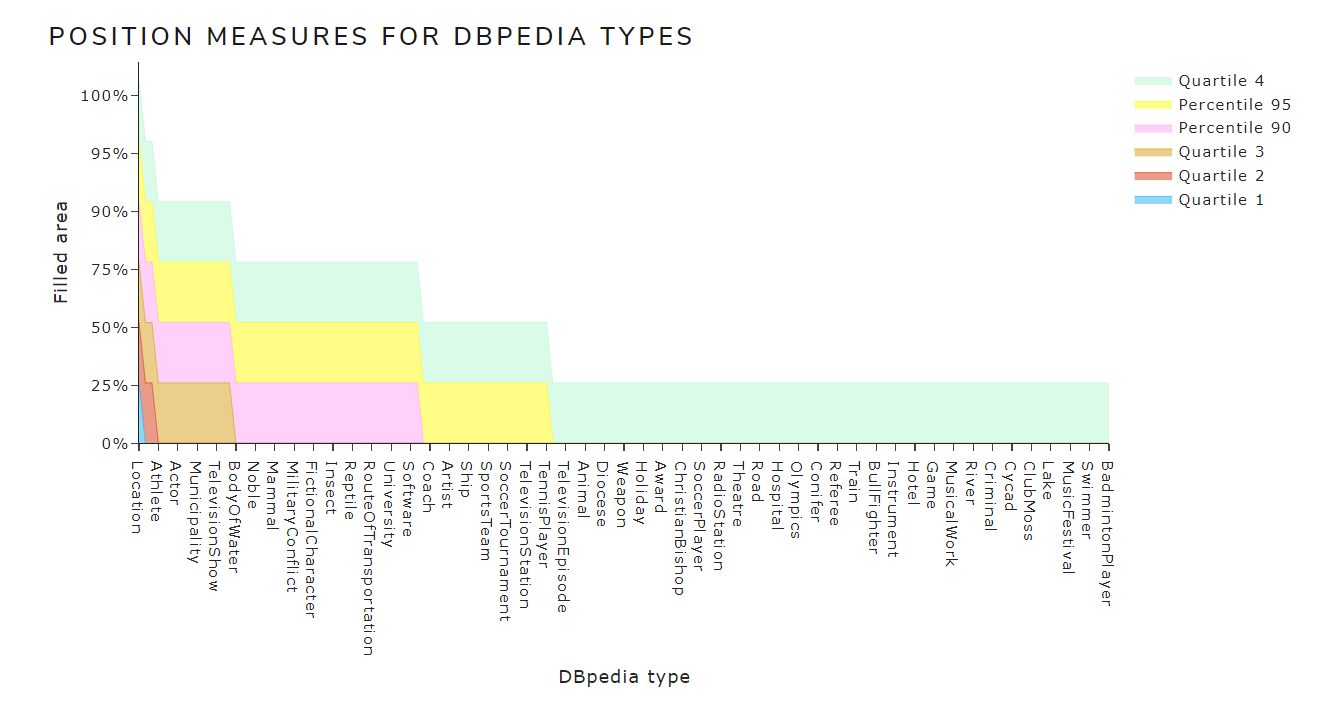
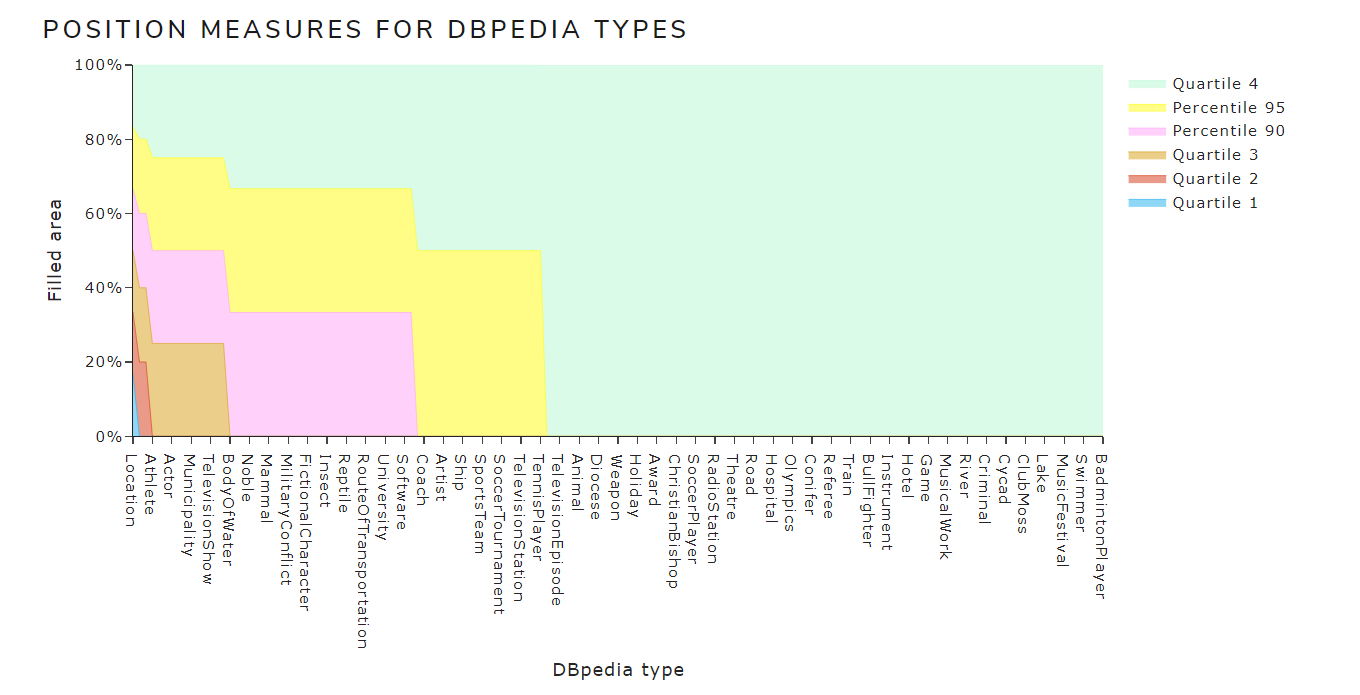
Position mesures hover text

diff --git a/src/figures.py b/src/figures.py
@@ -121,69 +121,68 @@ def get_init_bar_figure_pos(language_directory,df):
     if language_directory == R.es_dashboard_directory:
         stats = R.es_stats
         known_types = R.known_types_es_2021_05_01_without_repetitions
-        vals = [0, 200000, 400000, 600000, 800000, 1000000, 1200000]
-        text = ['0%', '25%', '50%', '75%', '90%', '95%','100%']
     else:
         known_types = R.known_types_en_2021_05_01_without_repetitions
         stats = R.en_stats
-        vals = [0, 1000000, 2000000, 3000000, 4000000]
-        text = ['0%', '35%', '80%', '95%', '100%']
         
     x = known_types["DBpedia type"].tolist()
     cumulative = known_types["Cumulative total"].tolist()
     n_entities = known_types["Nº entities"].tolist()
     quartile1 = list()
+    quartile1_text = list()
     quartile2 = list()
+    quartile2_text = list()
     quartile3 = list()
+    quartile3_text = list()
     quartile4 = list()
-    p10 = list()
+    quartile4_text = list()
     p90 = list()
+    p90_text = list()
     p95 = list()
-    
+    p95_text = list()
+    i = 0
     for value in cumulative:
-        i = 0
-        if value <= float(stats[10]): # 10th percentile
-            p10.append(n_entities[i])
         if value <= float(stats[8]): # 1st quartile
             quartile1.append(n_entities[i])
+            quartile1_text.append("("+ x[i]+", " + str(n_entities[i])+")")
         if value <= float(stats[14]): # 2nd quartile
             quartile2.append(n_entities[i])
+            quartile2_text.append("("+ x[i]+", " + str(n_entities[i])+")")
         if value <= float(stats[9]): # 3rd quartile
-            quartile3.append(n_entities[i])  
+            quartile3.append(n_entities[i])
+            quartile3_text.append("("+ x[i]+", " + str(n_entities[i])+")")
         if value <= float(stats[18]): # 90th percentile
             p90.append(n_entities[i])
+            p90_text.append("("+ x[i]+", " + str(n_entities[i])+")")
         if value <= float(stats[19]): # 95th percentile
             p95.append(n_entities[i])
+            p95_text.append("("+ x[i]+", " + str(n_entities[i])+")")
         # 4th quartile
         quartile4.append(n_entities[i])
+        quartile4_text.append("("+ x[i]+", " + str(n_entities[i])+")")
         i+=1
         
     # For displaying positional measures
     fig = go.Figure()
-    # 10th percentile
-    fig.add_trace(go.Scatter(
-        x=x, y=p10,
-        name='Percentile 10',
-        hoverinfo='x+y',
-        mode='lines',
-        line=dict(width=0.5, color="#77C14C"),
-        stackgroup='one' # define stack group
-    ))
+    
      # 1st quartile
     fig.add_trace(go.Scatter(
         x=x, y=quartile1,
         name='Quartile 1',
-        hoverinfo='x+y',
+        hoverinfo="text",
+        hovertext=quartile1_text,
         mode='lines',
         line=dict(width=0.5, color="#1FAFEE"),
-        stackgroup='one' # define stack group
+        stackgroup='one',
+        groupnorm='percent'
     ))
      # 2nd quartile
     fig.add_trace(go.Scatter(
         x=x, y=quartile2,
         name='Quartile 2',
-        hoverinfo='x+y',
         mode='lines',
+        hoverinfo="text",
+        hovertext=quartile2_text,
         line=dict(width=0.5, color="#D53614"),
         stackgroup='one' # define stack group
     ))
@@ -191,17 +190,20 @@ def get_init_bar_figure_pos(language_directory,df):
     fig.add_trace(go.Scatter(
         x=x, y=quartile3,
         name='Quartile 3',
-        hoverinfo='x+y',
+        hoverinfo="text",
+        hovertext=quartile3_text,
         mode='lines',
         line=dict(width=0.5, color="#D59D14"),
         stackgroup='one' # define stack group
     ))
+    
           # 90th percentile
     fig.add_trace(go.Scatter(
         x=x, y=p90,
         name='Percentile 90',
-        hoverinfo='x+y',
         mode='lines',
+        hoverinfo="text",
+        hovertext=p90_text,
         line=dict(width=0.5, color="#FFA4F5"),
         stackgroup='one' # define stack group
     ))
@@ -210,8 +212,9 @@ def get_init_bar_figure_pos(language_directory,df):
     fig.add_trace(go.Scatter(
         x=x, y=p95,
         name='Percentile 95',
-        hoverinfo='x+y',
         mode='lines',
+        hoverinfo="text",
+        hovertext=p95_text,
         line=dict(width=0.5, color="#FFFB0B"),
         stackgroup='one' # define stack group
     ))
@@ -220,7 +223,8 @@ def get_init_bar_figure_pos(language_directory,df):
     fig.add_trace(go.Scatter(
         x=x, y=quartile4,
         name='Quartile 4',
-        hoverinfo='x+y',
+        hoverinfo="text",
+        hovertext=quartile4_text,
         mode='lines',
         line=dict(width=0.5, color='rgb(184, 247, 212)'),
         stackgroup='one' # define stack group
@@ -233,10 +237,9 @@ def get_init_bar_figure_pos(language_directory,df):
     xaxis_type='category',
     yaxis=dict(
         type='linear',
-        autorange = True,
         tickmode = 'array',
-        tickvals = vals,
-        ticktext = text,
+        tickvals = [0, 20, 40, 60, 80, 100],
+        ticktext = ['0%', '30%', '60%', '80%', '90%', '100%']
         ),
     xaxis_title="DBpedia type", yaxis_title="Filled area")
 
